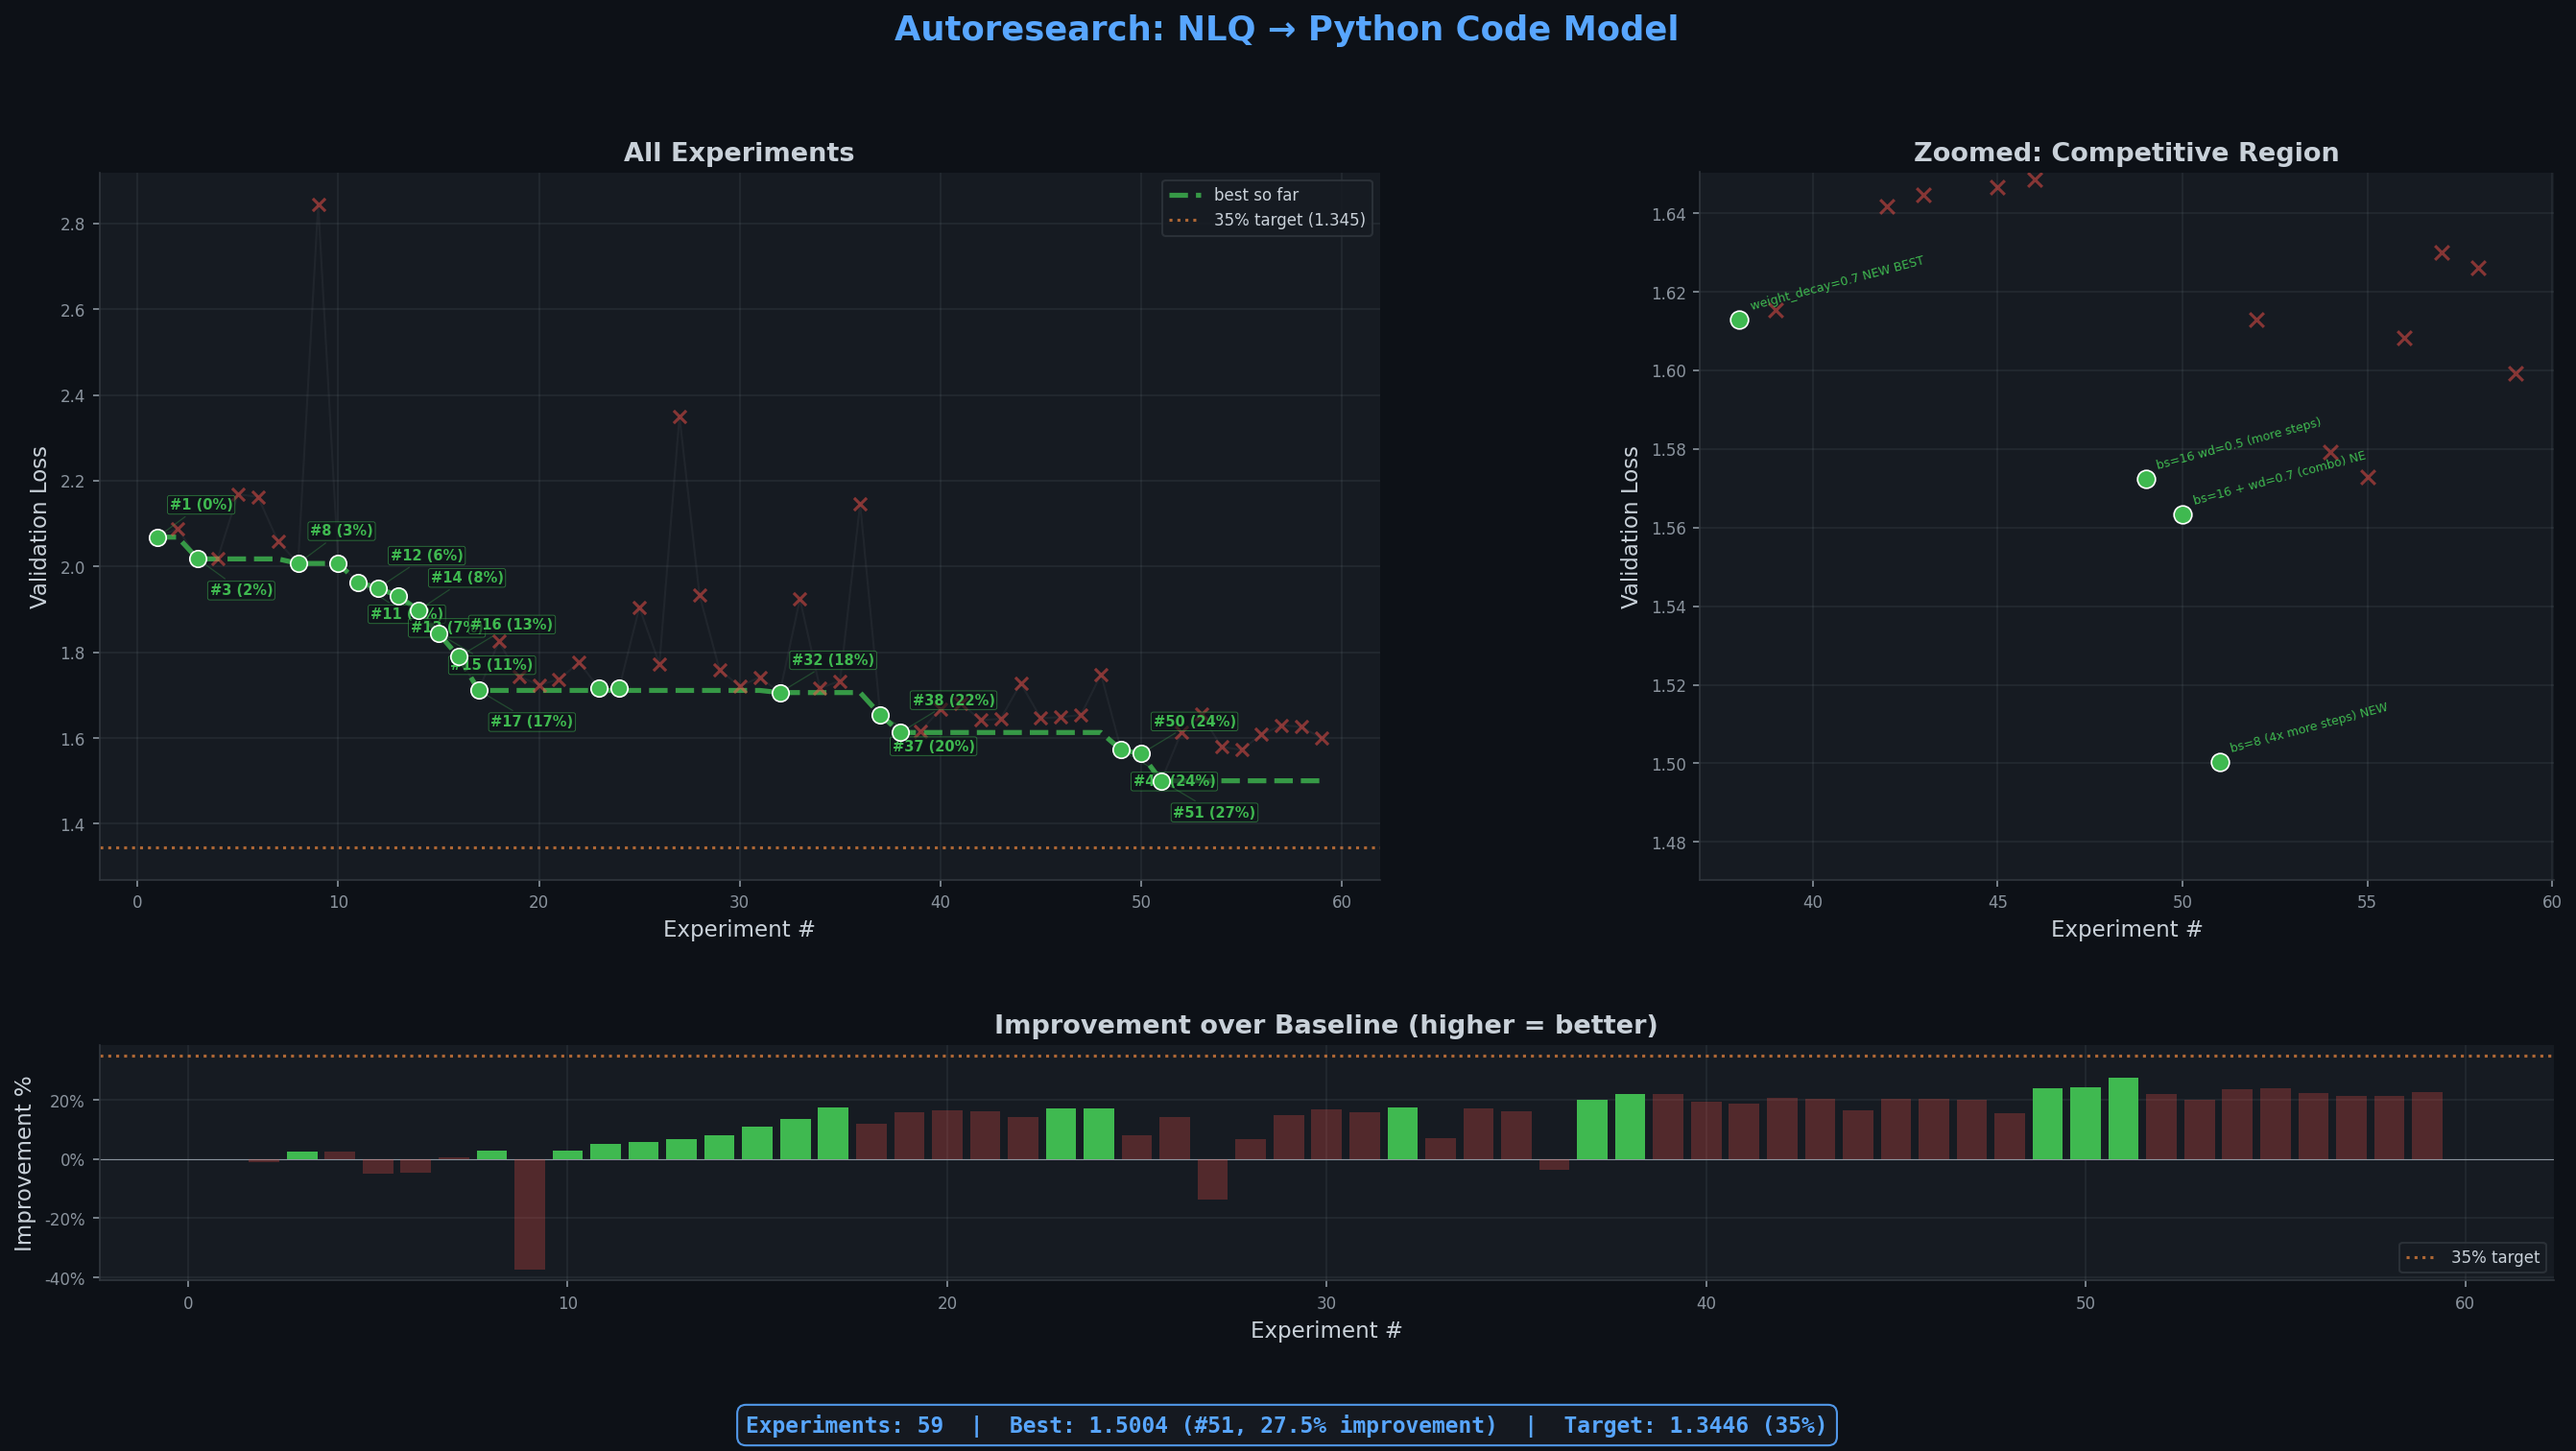
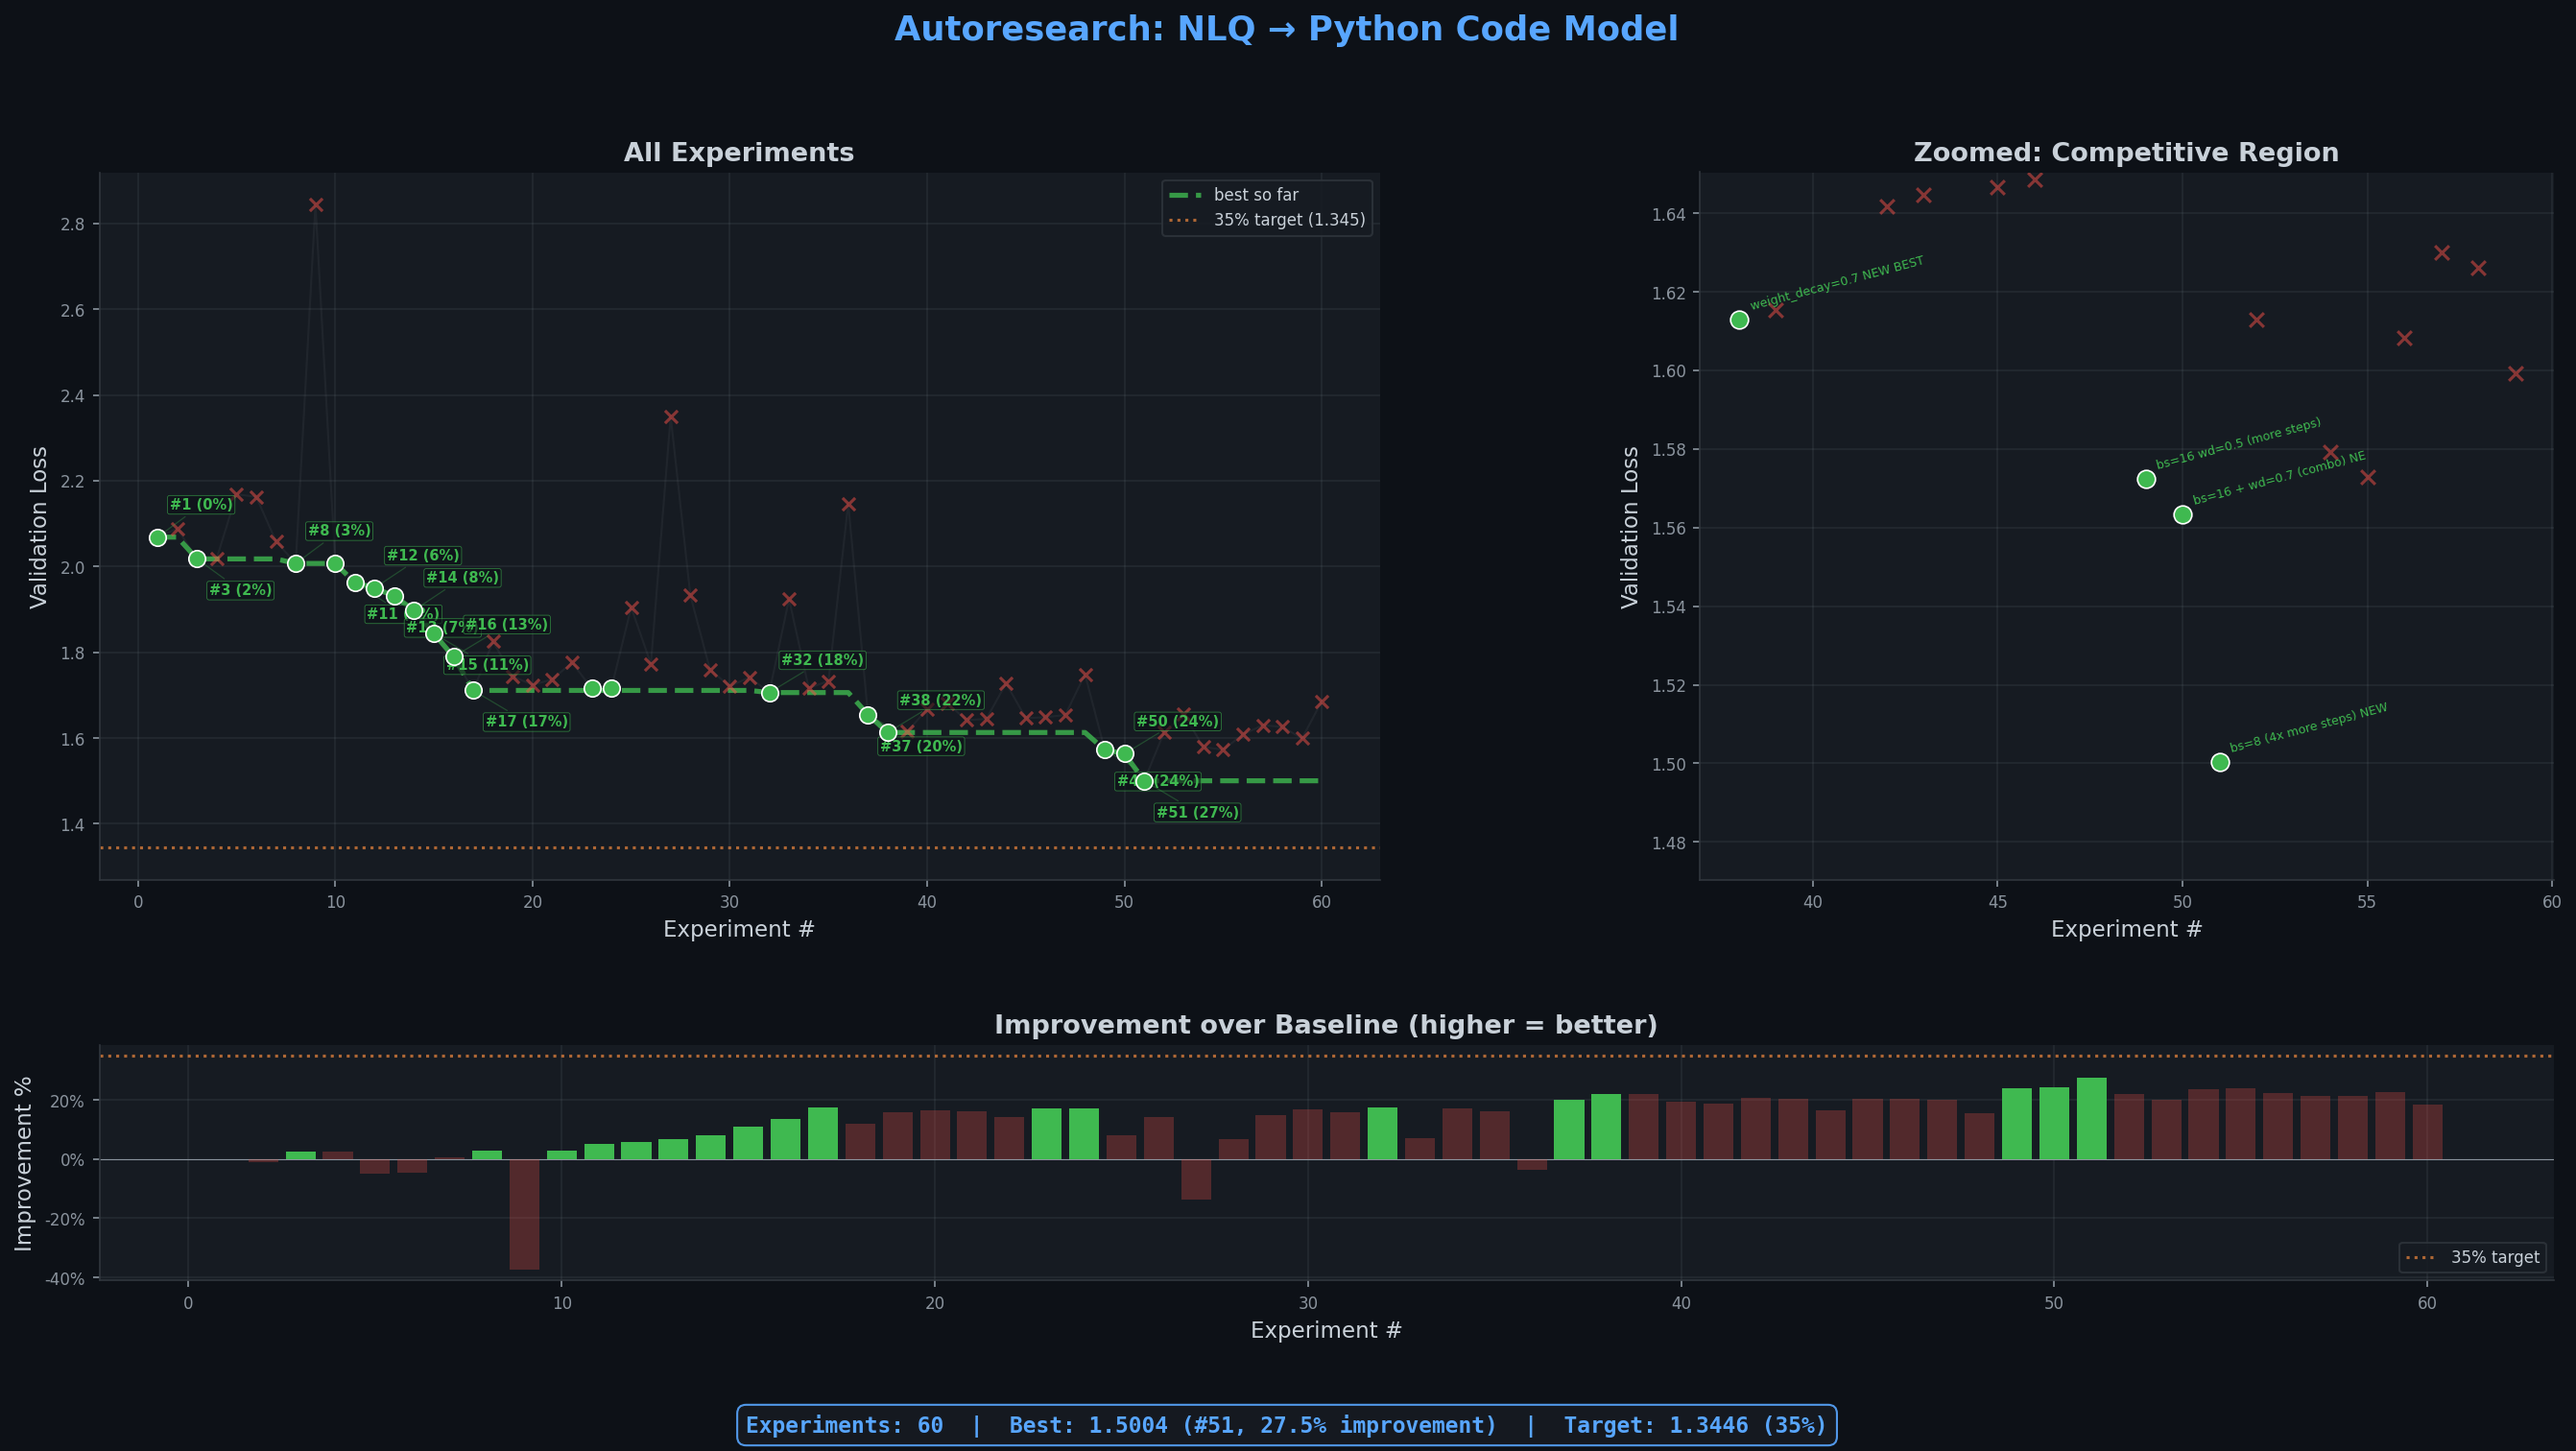
exp 060: bs=4 (8x more steps) (val=1.6862, 18.5%)

diff --git a/train_mlx.py b/train_mlx.py
@@ -46,7 +46,7 @@ USE_SWIGLU = False
 DROPOUT = 0.1
 
 # Training
-BATCH_SIZE = 16
+BATCH_SIZE = 8
 LEARNING_RATE = 3e-3
 WEIGHT_DECAY = 0.5
 WARMUP_STEPS = 150
